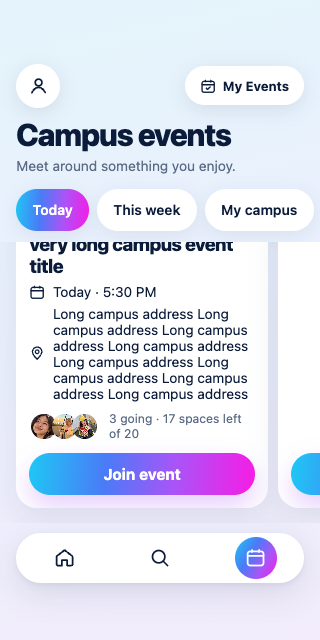
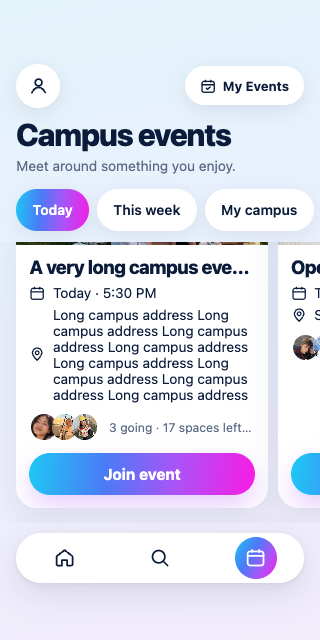
fix(events): lock source carousel and regress attendance flows

diff --git a/src/pages/events/index.vue b/src/pages/events/index.vue
@@ -88,7 +88,7 @@ watch(() => store.session.current_user_id, reset_transient)
           <view class="event-cover" role="button" tabindex="0" :aria-label="`View ${event.title}`" :data-interaction="!index ? 'events.openEvent.click.1' : null" @click.stop="navigate('detail', event.event_id)" @keydown.enter.stop="navigate('detail', event.event_id)"><ProfilePhoto :src="event.image_url" :name="event.title" event-cover /></view>
           <view class="event-body">
             <text class="event-title" role="button" tabindex="0" :data-interaction="!index ? 'events.openEvent.click.2' : null" @click.stop="navigate('detail', event.event_id)" @keydown.enter.stop="navigate('detail', event.event_id)">{{ event.title }}</text>
-            <view class="event-info"><view class="events-icon"><SourceIcon name="events" /></view><text>{{ event.date_label }}</text></view>
+            <view class="event-info"><view class="events-icon"><SourceIcon name="events" :stroke-width="1.9" /></view><text>{{ event.date_label }}</text></view>
             <view class="event-info event-location"><view class="events-icon"><SourceIcon name="location" /></view><text>{{ event.location }}</text></view>
             <view class="event-participants" :role="index ? undefined : 'button'" :tabindex="index ? undefined : 0" :data-interaction="!index ? 'events.openParticipants.click.1' : null" :data-target="!index ? target('participants', event.event_id) : null" @click="!index && navigate('participants', event.event_id)" @keydown.enter="!index && navigate('participants', event.event_id)">
               <view v-if="event.participants.length" class="event-avatars"><view v-for="person in event.participants" :key="person.user_id" class="event-avatar"><UserAvatar :src="person.avatar_url" :name="person.user_name" /></view></view>
@@ -186,7 +186,7 @@ watch(() => store.session.current_user_id, reset_transient)
 }
 .event-cover { position: relative; flex: none; height: 408.397rpx; cursor: pointer; }
 .event-body { display: flex; flex-direction: column; flex: 1; min-width: 0; padding: 26.718rpx 30.534rpx 30.534rpx; }
-.event-title { font-size: 43.893rpx; font-weight: 800; letter-spacing: -0.03em; overflow-wrap: anywhere; cursor: pointer; }
+.event-title { font-size: 43.893rpx; font-weight: 800; letter-spacing: -0.03em; white-space: nowrap; overflow: hidden; text-overflow: ellipsis; cursor: pointer; }
 .event-info { display: flex; align-items: center; gap: 17.176rpx; margin-top: 15.267rpx; font-size: 32.443rpx; }
 .event-info text { min-width: 0; overflow-wrap: anywhere; }
 .event-location { margin-top: 13.359rpx; }
@@ -195,7 +195,7 @@ watch(() => store.session.current_user_id, reset_transient)
 .event-avatars { display: flex; flex: none; }
 .event-avatar { width: 68.702rpx; height: 68.702rpx; border-radius: 50%; border: 2px solid var(--cimoa-surface-card); }
 .event-avatar + .event-avatar { margin-left: -20.992rpx; }
-.event-count { min-width: 0; font-size: 28.626rpx; color: var(--cimoa-text-secondary); overflow-wrap: anywhere; }
+.event-count { min-width: 0; font-size: 28.626rpx; color: var(--cimoa-text-secondary); white-space: nowrap; overflow: hidden; text-overflow: ellipsis; }
 .event-actions { margin-top: auto; padding-top: 26.718rpx; }
 .event-join {
   display: flex;

diff --git a/docs/ui-restoration/events/source-contract.md b/docs/ui-restoration/events/source-contract.md
@@ -1,0 +1,26 @@
+# Events 与群聊来源锁定
+
+- 原型：`CIRCA All Screens (interactive).html`
[1 lines of base64/hex data omitted]
+- 日期：2026-10-17。只读解析内嵌模板；生产项目不加载原型。
+- 顺序：Events → Detail（含报名/取消/More）→ Participants → Join Success → My Events → Group → Report。任一时刻仅一页 in_progress；各页专项本地提交，不推送。
+- 数据依赖：Event、Organizer、EventMembership、kind=group 的 Conversation、Message、MediaFile。人物统一由 user_id 查询；加入不创建好友关系。座位数按完整成员计数，拉黑只过滤可见人物/消息。
+- 注册登录、报名、发送、静音、已读均由 Store 事务处理。写入前自定义 500ms Loading。读取、搜索、返回不显示写入 Loading。
+
+## 来源和审计
+| 页面 | 模板行 | 固定/滚动与返回 | 已发现差异及处理 |
+| --- | --- | --- | --- |
+| Events | 517–605 | 主 Tab 固定 header/Tabbar，中部纵滚 + 横向 snap 卡片；详情返回此 Tab | 标题/人数应单行省略，日历描边1.9。保留真实空/错误/会话状态 |
+| Detail | 1919–1996 | 固定返回/More 和 CTA，中间内容滚动；返回实际入口（Events/My Events/Group） | 主办方 SU 徽记/认证、单行日期地点、参与者链接、schedule 字重、Good to know 标签、按钮大小写与原型对齐；安全区与固定 header 属已批准技术适配 |
+| Participants | 2017–2046 | 固定48px header，搜索与列表滚动；返回来源详情/群聊 | 去除无来源句号，姓名18/800，保持真实关系标签、搜索/拉黑与长文适配 |
+| Join Success | 1999–2014 | 顶186px内容，底双 CTA；Open Event 回原详情，不重复入栈 | 成功 SVG、阴影、日期地点一行、Open Event 文案、底34px。仅真实已报名显示 |
+| My Events | 2116–2164 | 固定 header，中间真实已报名/历史列表；返回实际入口 | 标题 My events、字重和日期/地点间距；无报名不得填充原型假卡片 |
+| Group | 2049–2112 | 固定80px header，消息滚动，118px composer + 实际安全区；返回实际入口 | 删除无来源提示条；还原主办方通知、左右头像/时间顺序、placeholder、间距/阴影。新增真实媒体菜单为用户授权补齐，不伪造他人消息 |
+| Report | 2167–2193 | 固定 header/Submit report，七项原因滚动；返回真实入口 | 原因按原型；提交保存事件举报、不擅自退出。真实未配置服务须明确说明 |
+
+## 验收边界
+- 浏览器隔离账号测试；服务记录 PID，finally 清理。普通浏览器无宿主时媒体能力实际检测并明确失败。
+- WKWebView 使用打包本地 H5，检查返回、键盘、安全区、媒体刷新和后台恢复。
+- 真实麦克风当前缺少系统输入设备；受控音频仅用于编解码测试，不能冒充真实录音通过。
+- 原型 Block Organizer 仅 toast，没有机构拉黑模型；待用户决定机构屏蔽范围，未决定前保留明确失败，不假成功。
+- 视觉未生成/检查独立原型参考、actual/overlay/diff 前 visual_acceptance 保持 pending；功能通过不等于像素级通过。所有依赖和生产验收完成前不标 verified。
